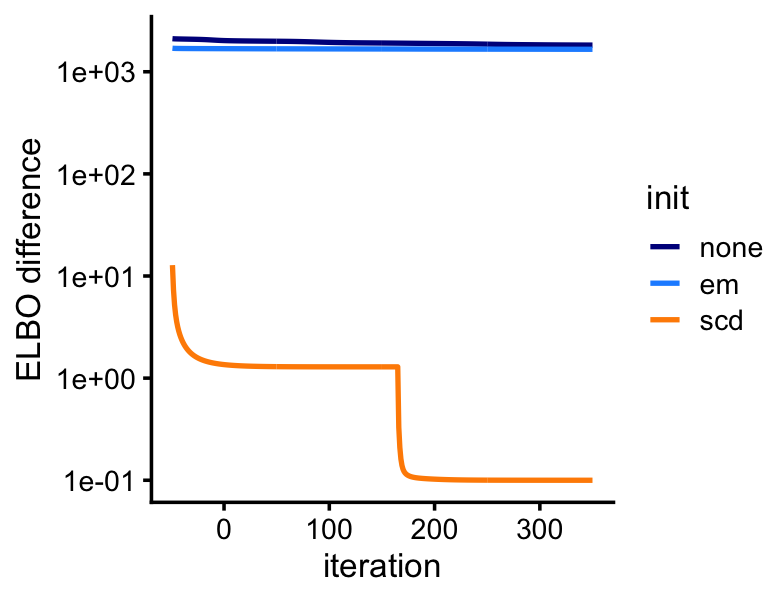
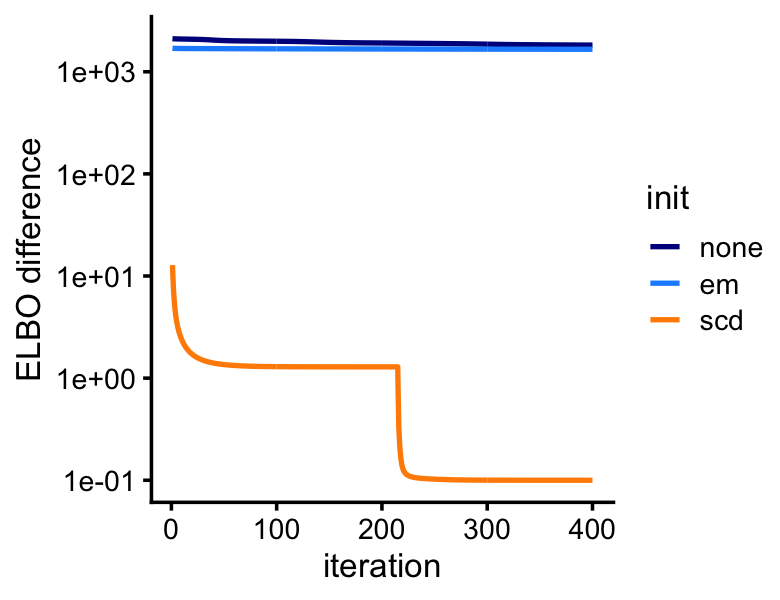
Added maptpx to smallsim example.

Changed region(s): [[0.2769, 0.84, 0.8, 0.9], [0.1846, 0.84, 0.2462, 0.9]]

diff --git a/docs/smallsim.html b/docs/smallsim.html
@@ -12,7 +12,7 @@
 <meta name="author" content="Peter Carbonetto" />
 
 
-<title>EM vs. SCD for fitting a Poisson NMF model and a topic model to a small, simulated data set</title>
+<title>EM vs. SCD in a small, simulated data set</title>
 
 <script src="site_libs/jquery-1.11.3/jquery.min.js"></script>
 <meta name="viewport" content="width=device-width, initial-scale=1" />
@@ -297,7 +297,7 @@ $(document).ready(function () {
 
 
 
-<h1 class="title toc-ignore">EM vs. SCD for fitting a Poisson NMF model and a topic model to a small, simulated data set</h1>
+<h1 class="title toc-ignore">EM vs. SCD in a small, simulated data set</h1>
 <h4 class="author">Peter Carbonetto</h4>
 
 </div>
@@ -323,7 +323,7 @@ $(document).ready(function () {
 <div class="tab-content">
 <div id="summary" class="tab-pane fade in active">
 <p>
-<strong>Last updated:</strong> 2021-03-12
+<strong>Last updated:</strong> 2021-05-06
 </p>
 <p>
 <strong>Checks:</strong> <span class="glyphicon glyphicon-ok text-success" aria-hidden="true"></span> 7 <span class="glyphicon glyphicon-exclamation-sign text-danger" aria-hidden="true"></span> 0
@@ -414,30 +414,37 @@ This reproducible <a href="http://rmarkdown.rstudio.com">R Markdown</a> analysis
 <div class="panel panel-default">
 <div class="panel-heading">
 <p class="panel-title">
-<a data-toggle="collapse" data-parent="#workflowr-checks" href="#strongRepositoryversionstrongahrefhttpsgithubcomstephenslabfastTopicsexperimentstree1a7515da62e96d5d769f15bb0002d4e49f09f5d0targetblank1a7515da"> <span class="glyphicon glyphicon-ok text-success" aria-hidden="true"></span> <strong>Repository version:</strong> <a href="https://github.com/stephenslab/fastTopics-experiments/tree/1a7515da62e96d5d769f15bb0002d4e49f09f5d0" target="_blank">1a7515d</a> </a>
+<a data-toggle="collapse" data-parent="#workflowr-checks" href="#strongRepositoryversionstrongahrefhttpsgithubcomstephenslabfastTopicsexperimentstree4d9c3702d50f7c4f498c011bf880f4d1fe63c7eetargetblank4d9c370a"> <span class="glyphicon glyphicon-ok text-success" aria-hidden="true"></span> <strong>Repository version:</strong> <a href="https://github.com/stephenslab/fastTopics-experiments/tree/4d9c3702d50f7c4f498c011bf880f4d1fe63c7ee" target="_blank">4d9c370</a> </a>
 </p>
 </div>
[2 lines of base64/hex data omitted]
 <div class="panel-body">
 <p>
 Great! You are using Git for version control. Tracking code development and connecting the code version to the results is critical for reproducibility.
 </p>
 <p>
-The results in this page were generated with repository version <a href="https://github.com/stephenslab/fastTopics-experiments/tree/1a7515da62e96d5d769f15bb0002d4e49f09f5d0" target="_blank">1a7515d</a>. See the <em>Past versions</em> tab to see a history of the changes made to the R Markdown and HTML files.
+The results in this page were generated with repository version <a href="https://github.com/stephenslab/fastTopics-experiments/tree/4d9c3702d50f7c4f498c011bf880f4d1fe63c7ee" target="_blank">4d9c370</a>. See the <em>Past versions</em> tab to see a history of the changes made to the R Markdown and HTML files.
 </p>
 <p>
 Note that you need to be careful to ensure that all relevant files for the analysis have been committed to Git prior to generating the results (you can use <code>wflow_publish</code> or <code>wflow_git_commit</code>). workflowr only checks the R Markdown file, but you know if there are other scripts or data files that it depends on. Below is the status of the Git repository when the results were generated:
 </p>
 <pre><code>
 Ignored files:
+    Ignored:    analysis/.sos/
     Ignored:    data/20news-bydate/
+    Ignored:    data/droplet.RData
     Ignored:    data/nips_1-17.mat
+    Ignored:    data/pbmc_68k.RData
+    Ignored:    output/droplet/fits-droplet.RData
     Ignored:    output/newsgroups/fits-newsgroups.RData
     Ignored:    output/nips/fits-nips.RData
+    Ignored:    output/pbmc68k/fits-pbmc68k.RData
 
 Untracked files:
-    Untracked:  .DS_Store
     Untracked:  plots/
+
+Unstaged changes:
+    Modified:   analysis/temp.R
 
 </code></pre>
 <p>
@@ -476,6 +483,74 @@ Message
 </tr>
 </thead>
 <tbody>
+<tr>
+<td>
+Rmd
+</td>
+<td>
+<a href="https://github.com/stephenslab/fastTopics-experiments/blob/4d9c3702d50f7c4f498c011bf880f4d1fe63c7ee/analysis/smallsim.Rmd" target="_blank">4d9c370</a>
+</td>
+<td>
+Peter Carbonetto
+</td>
+<td>
+2021-05-06
+</td>
+<td>
+workflowr::wflow_publish(“smallsim.Rmd”)
+</td>
+</tr>
+<tr>
+<td>
+Rmd
+</td>
+<td>
+<a href="https://github.com/stephenslab/fastTopics-experiments/blob/1e58fea82e7303d6adef88bd0c16a3837e587f79/analysis/smallsim.Rmd" target="_blank">1e58fea</a>
+</td>
+<td>
+Peter Carbonetto
+</td>
+<td>
+2021-04-06
+</td>
+<td>
+Revised title in smallsim demo.
+</td>
+</tr>
+<tr>
+<td>
+Rmd
+</td>
+<td>
+<a href="https://github.com/stephenslab/fastTopics-experiments/blob/b1c94ad5bdbef0e171501108bd53076a0d60796a/analysis/smallsim.Rmd" target="_blank">b1c94ad</a>
+</td>
+<td>
+Peter Carbonetto
+</td>
+<td>
+2021-03-19
+</td>
+<td>
+Added scd and mu updates to scd_vs_ccd.R.
+</td>
+</tr>
+<tr>
+<td>
+html
+</td>
+<td>
+<a href="https://rawcdn.githack.com/stephenslab/fastTopics-experiments/aa89a24040b03d5dbc174dff6306e9a5cd586374/docs/smallsim.html" target="_blank">aa89a24</a>
+</td>
+<td>
+Peter Carbonetto
+</td>
+<td>
+2021-03-12
+</td>
+<td>
+Created PDF for last plot in smallsim example.
+</td>
+</tr>
 <tr>
 <td>
 Rmd
@@ -1282,7 +1357,7 @@ Implemented functions simulate_sizes and simulate_factors.
 </div>
 </div>
 </div>
-<p>Here we perform a small experiment with simulated data to illustrate the behaviour of the EM and SCD algorithms for fitting Poisson NMF models. This example suggests that the EM updates have difficulty with correlations between topics, even when they are quite modest, The results also suggest that the basic variational EM for LDA also experiences similar difficulties.</p>
+<p>Here we perform a small experiment with simulated data to illustrate the behaviour of the EM and SCD algorithms for fitting Poisson NMF models. This example suggests that the EM updates have difficulty with correlations between topics, even when they are quite modest. The results also suggest that the basic variational EM for LDA also experiences similar difficulties.</p>
 <p>Load the packages used in the analysis below, as well as additional functions that we will use to simulate the data.</p>
 <pre class="r"><code>library(tm)
 library(topicmodels)
@@ -1625,11 +1700,42 @@ Peter Carbonetto
 </table>
 </div>
 </div>
+<p><em>Add text here.</em></p>
+<pre class="r"><code>maptpx0 &lt;- maptpx::topics(X,k,shape = 1,initopics = fit0$F,omega = fit0$L,
+                          tol = 0.001,tmax = 1000,ord = FALSE,verb = 0)
+maptpx1 &lt;- maptpx::topics(X,k,shape = 1,initopics = fit1$F,omega = fit1$L,
+                          tol = 0.001,tmax = 1000,ord = FALSE,verb = 0)
+maptpx2 &lt;- maptpx::topics(X,k,shape = 1,initopics = fit2$F,omega = fit2$L,
+                          tol = 0.001,tmax = 1000,ord = FALSE,verb = 0)</code></pre>
+<p><em>Add text here.</em></p>
+<pre class="r"><code>pdat &lt;- rbind(data.frame(iter = 1:length(maptpx0$progress),
+                         y    = maptpx0$progress,
+                         init = &quot;em-50&quot;),
+              data.frame(iter = 1:length(maptpx1$progress),
+                         y    = maptpx1$progress,
+                         init = &quot;em-150&quot;),
+              data.frame(iter = 1:length(maptpx2$progress),
+                         y    = maptpx2$progress,
+                         init = &quot;scd&quot;))
+pdat &lt;- transform(pdat,y = max(y) - y + 0.1)
+ggplot(pdat,aes(x = iter,y = y,color = init)) +
+  geom_line(size = 0.75) +
+  scale_y_continuous(trans = &quot;log10&quot;) +
+  scale_color_manual(values = c(&quot;dodgerblue&quot;,&quot;darkblue&quot;,&quot;darkorange&quot;)) +
+  labs(x = &quot;iteration&quot;,y = &quot;log-posterior difference&quot;) +
+  theme_cowplot(font_size = 10)</code></pre>
+<p><img src="figure/smallsim.Rmd/plot-progress-maptpx-1.png" width="360" style="display: block; margin: auto;" /></p>
 <p>Next, we turn to the problem of fitting an LDA model to the same data.</p>
 <p>We perform 400 iterations of variational EM, initializing the LDA model fits using the MLEs computed above.</p>
 <pre class="r"><code>lda0 &lt;- run_lda(X,fit0,numiter = 400)
 lda1 &lt;- run_lda(X,fit1,numiter = 400)
 lda2 &lt;- run_lda(X,fit2,numiter = 400)</code></pre>
+<div class="alert alert-warning">
+<p>
+<strong>Warning:</strong> The above code chunk cached its results, but it won’t be re-run if previous chunks it depends on are updated. If you need to use caching, it is highly recommended to also set <code>knitr::opts_chunk$set(autodep = TRUE)</code> at the top of the file (in a chunk that is not cached). Alternatively, you can customize the option <code>dependson</code> for each individual chunk that is cached. Using either <code>autodep</code> or <code>dependson</code> will remove this warning. See the <a href="https://yihui.name/knitr/options/#cache"
+>knitr cache options</a> for more details.
+</p>
+</div>
 <p>Although the LDA fitting problem is different—we are now fitting a (approximate) posterior distribution, and so the estimates are approximate posterior means rather than MLE—initializing the LDA fit using the MLEs greatly improves the LDA model fitting, as we will see from this next plot: even after 400 iterations, variational EM without a good initialization does not approach the quality of the LDA model fits initialized using the EM and SCD estimates.</p>
 <pre class="r"><code>pdat &lt;- rbind(data.frame(iter = 1:400,elbo = lda0@logLiks,init = &quot;none&quot;),
               data.frame(iter = 1:400,elbo = lda1@logLiks,init = &quot;em&quot;),
@@ -2114,13 +2220,17 @@ Peter Carbonetto
 <pre class="r"><code>lda0 &lt;- run_lda(X,fit0,numiter = 400)
 lda1 &lt;- run_lda(X,fit1,numiter = 400)
 lda2 &lt;- run_lda(X,fit2,numiter = 400)</code></pre>
+<div class="alert alert-warning">
+<p>
+<strong>Warning:</strong> The above code chunk cached its results, but it won’t be re-run if previous chunks it depends on are updated. If you need to use caching, it is highly recommended to also set <code>knitr::opts_chunk$set(autodep = TRUE)</code> at the top of the file (in a chunk that is not cached). Alternatively, you can customize the option <code>dependson</code> for each individual chunk that is cached. Using either <code>autodep</code> or <code>dependson</code> will remove this warning. See the <a href="https://yihui.name/knitr/options/#cache"
+>knitr cache options</a> for more details.
+</p>
+</div>
 <p>This plot shows the improvement in the objective (the ELBO) over time:</p>
 <pre class="r"><code>pdat &lt;- rbind(data.frame(iter = 1:400,elbo = lda0@logLiks,init = &quot;none&quot;),
               data.frame(iter = 1:400,elbo = lda1@logLiks,init = &quot;em&quot;),
               data.frame(iter = 1:400,elbo = lda2@logLiks,init = &quot;scd&quot;))
-pdat &lt;- transform(pdat,
-                  iter = iter - 50,
-                  elbo = max(elbo) - elbo + 0.1)
+pdat &lt;- transform(pdat,elbo = max(elbo) - elbo + 0.1)
 p10&lt;-ggplot(pdat,aes(x = iter,y = elbo,color = init)) +
             geom_line(size = 0.75) +
             scale_y_continuous(trans = &quot;log10&quot;) +
@@ -2201,7 +2311,7 @@ Peter Carbonetto
 # [13] pillar_1.4.3         backports_1.1.5      lattice_0.20-38     
 # [16] quadprog_1.5-8       quantreg_5.54        glue_1.3.1          
 # [19] digest_0.6.23        promises_1.1.0       colorspace_1.4-1    
-# [22] htmltools_0.4.0      httpuv_1.5.2         Matrix_1.2-18       
+# [22] htmltools_0.4.0      httpuv_1.5.2         Matrix_1.3-3        
 # [25] pkgconfig_2.0.3      invgamma_1.1         SparseM_1.78        
 # [28] purrr_0.3.3          scales_1.1.0         whisker_0.4         
 # [31] later_1.0.0          Rtsne_0.15           MatrixModels_0.4-1  
@@ -2215,12 +2325,12 @@ Peter Carbonetto
 # [55] plotly_4.9.2         munsell_0.5.0        irlba_2.3.3         
 # [58] compiler_3.6.2       rlang_0.4.5          grid_3.6.2          
 # [61] htmlwidgets_1.5.1    labeling_0.3         rmarkdown_2.3       
-# [64] gtable_0.3.0         R6_2.4.1             knitr_1.26          
-# [67] dplyr_0.8.3          zeallot_0.1.0        workflowr_1.6.2.9000
-# [70] rprojroot_1.3-2      modeltools_0.2-22    stringi_1.4.3       
-# [73] parallel_3.6.2       SQUAREM_2017.10-1    Rcpp_1.0.5          
-# [76] vctrs_0.2.1          tidyselect_0.2.5     xfun_0.11           
-# [79] coda_0.19-3</code></pre>
+# [64] codetools_0.2-16     gtable_0.3.0         R6_2.4.1            
+# [67] knitr_1.26           dplyr_0.8.3          zeallot_0.1.0       
+# [70] workflowr_1.6.2.9000 rprojroot_1.3-2      maptpx_1.9-8        
+# [73] modeltools_0.2-22    stringi_1.4.3        parallel_3.6.2      
+# [76] SQUAREM_2017.10-1    Rcpp_1.0.5           vctrs_0.2.1         
+# [79] tidyselect_0.2.5     xfun_0.11            coda_0.19-3</code></pre>
 </div>
 </div>
 
